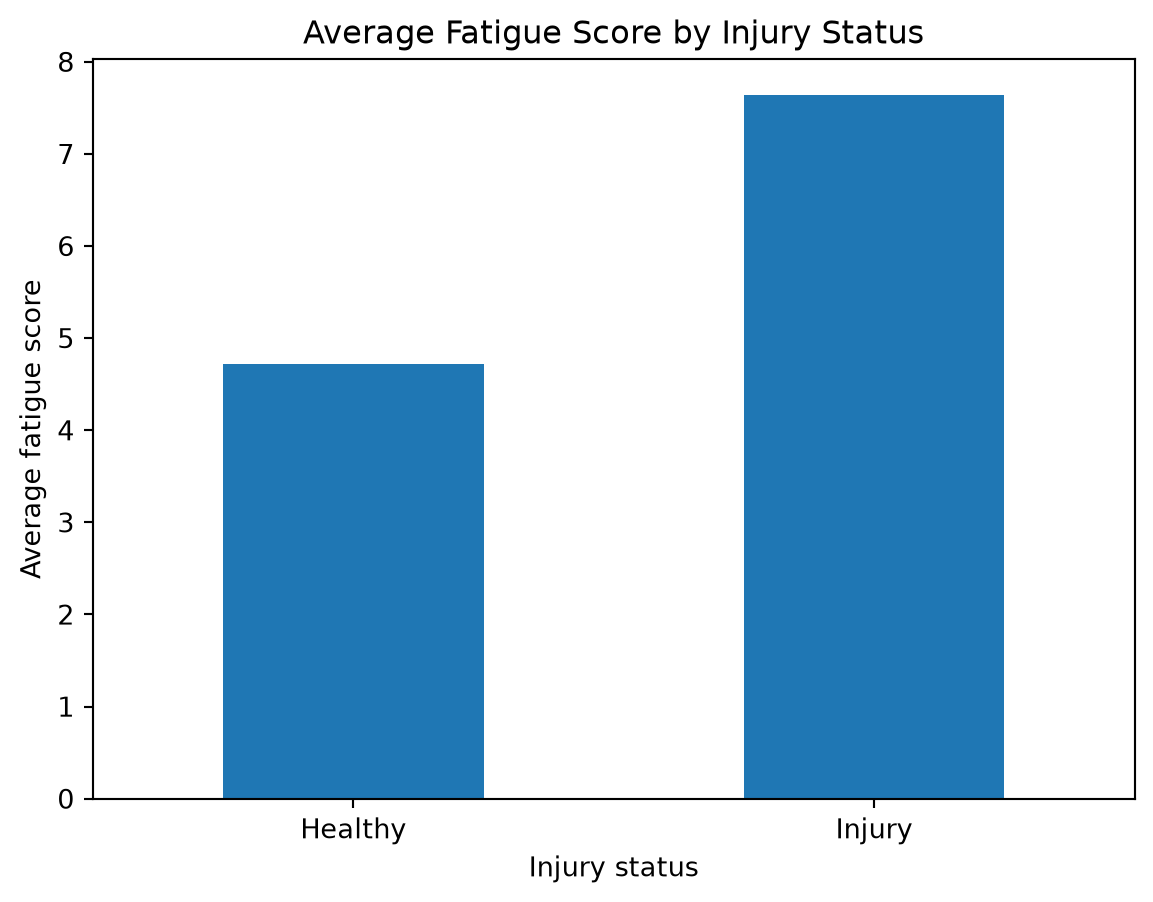
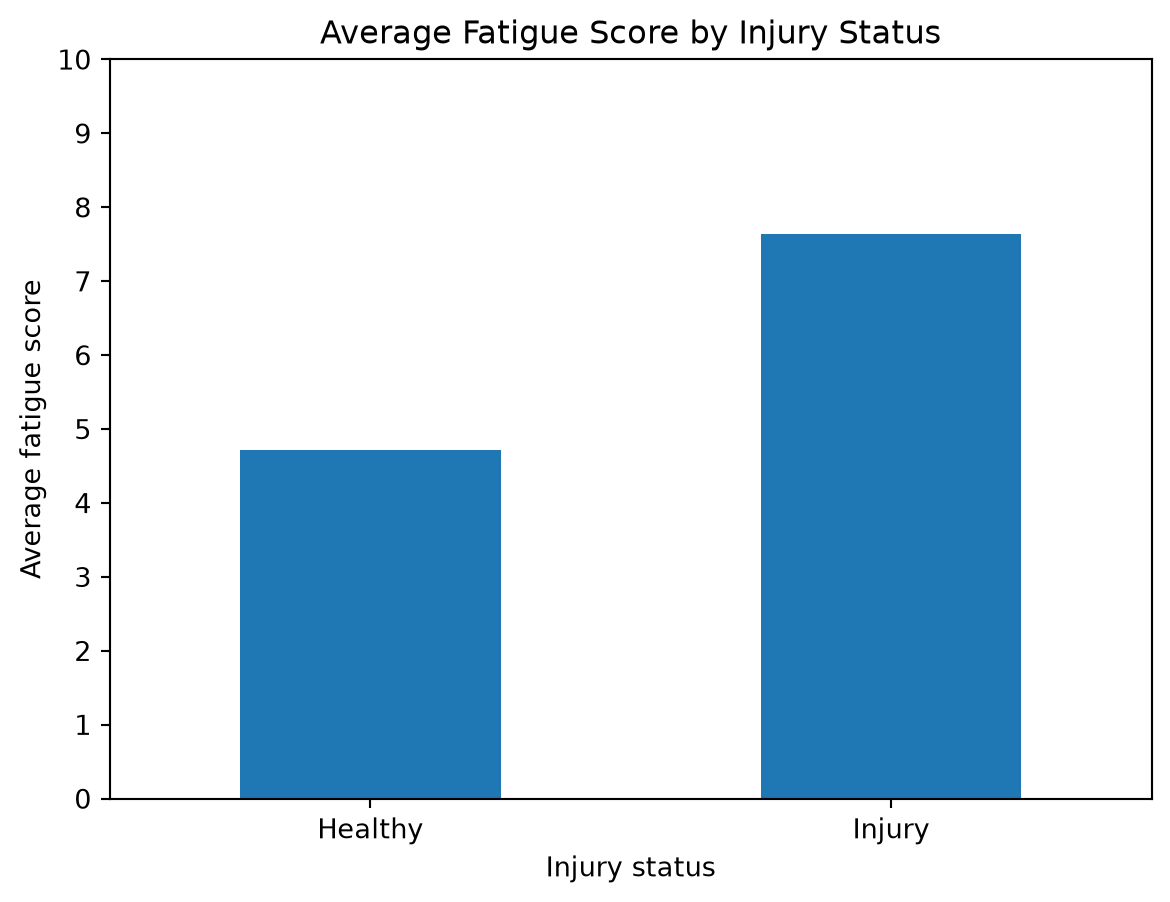
Finished writing the sports performance and injuries post

diff --git a/docs/posts/athlete_injuries/index.html b/docs/posts/athlete_injuries/index.html
@@ -335,6 +335,8 @@ pre > code.sourceCode > span > a:first-child::before { text-decoration: underlin
   <li><a href="#loading-and-inspecting-the-data" id="toc-loading-and-inspecting-the-data" class="nav-link" data-scroll-target="#loading-and-inspecting-the-data">Loading and Inspecting the Data</a></li>
   <li><a href="#comparing-training-and-recovery-characteristics" id="toc-comparing-training-and-recovery-characteristics" class="nav-link" data-scroll-target="#comparing-training-and-recovery-characteristics">Comparing Training and Recovery Characteristics</a></li>
   <li><a href="#focusing-on-fatigue" id="toc-focusing-on-fatigue" class="nav-link" data-scroll-target="#focusing-on-fatigue">Focusing on fatigue</a></li>
+  <li><a href="#does-it-affect-performance" id="toc-does-it-affect-performance" class="nav-link" data-scroll-target="#does-it-affect-performance">Does it affect Performance?</a></li>
+  <li><a href="#conclusion" id="toc-conclusion" class="nav-link" data-scroll-target="#conclusion">Conclusion</a></li>
   </ul>
 </nav>
     </div>
@@ -384,18 +386,18 @@ pre > code.sourceCode > span > a:first-child::before { text-decoration: underlin
 <h2 class="anchored" data-anchor-id="intro">Intro</h2>
 <p>The bane of any athlete’s existence is: <strong>Injury</strong>.</p>
 <p>You can try to escape from it; do your stretching, conditioning, strengthening, but it’ll always catch up to you in some way unexpectedly. The most you can do is prime the body to try to prevent injuries.</p>
-<p>It’s a lot easier to get injured as you get older. That’s why, when you’re young, you think you’re invincible. So, it should make sense that people aged 18-25 at their athletic peak should be the least injury-prone, right? Wrong. The higher level in competitive sports you go, the more risk of injury there is. Thus, through this dataset, we will try to analyze <strong>which training and recovery factors are associated with injury among collegiate athletes?</strong></p>
+<p>It’s a lot easier to get injured as you get older. That’s why, when you’re young, you think you’re invincible. So, it should make sense that people aged 18-25 at their athletic peak should be the least injury-prone, right? Wrong. The higher level in competitive sports you go, the more risk of injury there is. Thus, through this dataset, we will try to analyze <strong>How do training load, recovery, and fatigue differ between injured and healthy collegiate athletes?</strong></p>
 </section>
 <section id="loading-and-inspecting-the-data" class="level2">
 <h2 class="anchored" data-anchor-id="loading-and-inspecting-the-data">Loading and Inspecting the Data</h2>
-<div id="65ae7c2a" class="cell" data-execution_count="1">
+<div id="ab2f0d0e" class="cell" data-execution_count="1">
 <div class="code-copy-outer-scaffold"><div class="sourceCode cell-code" id="cb1"><pre class="sourceCode python code-with-copy"><code class="sourceCode python"><span id="cb1-1"><a href="#cb1-1" aria-hidden="true" tabindex="-1"></a><span class="im">import</span> pandas <span class="im">as</span> pd</span>
 <span id="cb1-2"><a href="#cb1-2" aria-hidden="true" tabindex="-1"></a><span class="im">import</span> matplotlib.pyplot <span class="im">as</span> plt</span>
 <span id="cb1-3"><a href="#cb1-3" aria-hidden="true" tabindex="-1"></a></span>
 <span id="cb1-4"><a href="#cb1-4" aria-hidden="true" tabindex="-1"></a>athletes <span class="op">=</span> pd.read_csv(<span class="st">'data/collegiate_athlete_injury_dataset.csv'</span>)</span>
 <span id="cb1-5"><a href="#cb1-5" aria-hidden="true" tabindex="-1"></a></span>
 <span id="cb1-6"><a href="#cb1-6" aria-hidden="true" tabindex="-1"></a>athletes.head()</span></code></pre></div><button title="Copy to Clipboard" class="code-copy-button"><i class="bi"></i></button></div>
-<div class="cell-output cell-output-display" data-execution_count="130">
+<div class="cell-output cell-output-display" data-execution_count="1">
 <div>
 
 
@@ -529,7 +531,7 @@ pre > code.sourceCode > span > a:first-child::before { text-decoration: underlin
 </div>
 </div>
 </div>
-<div id="a50bce23" class="cell" data-execution_count="2">
+<div id="4567073a" class="cell" data-execution_count="2">
 <div class="code-copy-outer-scaffold"><div class="sourceCode cell-code" id="cb2"><pre class="sourceCode python code-with-copy"><code class="sourceCode python"><span id="cb2-1"><a href="#cb2-1" aria-hidden="true" tabindex="-1"></a>counts <span class="op">=</span> pd.DataFrame({</span>
 <span id="cb2-2"><a href="#cb2-2" aria-hidden="true" tabindex="-1"></a>    <span class="st">"count"</span>: athletes[<span class="st">"Injury_Indicator"</span>].value_counts(),</span>
 <span id="cb2-3"><a href="#cb2-3" aria-hidden="true" tabindex="-1"></a>    <span class="st">"pct_total"</span>: athletes[<span class="st">"Injury_Indicator"</span>].value_counts(normalize<span class="op">=</span><span class="va">True</span>)</span>
@@ -537,7 +539,7 @@ pre > code.sourceCode > span > a:first-child::before { text-decoration: underlin
 <span id="cb2-5"><a href="#cb2-5" aria-hidden="true" tabindex="-1"></a>counts.index <span class="op">=</span> [<span class="st">'healthy'</span>, <span class="st">'injured'</span>]</span>
 <span id="cb2-6"><a href="#cb2-6" aria-hidden="true" tabindex="-1"></a></span>
 <span id="cb2-7"><a href="#cb2-7" aria-hidden="true" tabindex="-1"></a>counts</span></code></pre></div><button title="Copy to Clipboard" class="code-copy-button"><i class="bi"></i></button></div>
-<div class="cell-output cell-output-display" data-execution_count="131">
+<div class="cell-output cell-output-display" data-execution_count="2">
 <div>
 
 
@@ -571,7 +573,7 @@ pre > code.sourceCode > span > a:first-child::before { text-decoration: underlin
 </section>
 <section id="comparing-training-and-recovery-characteristics" class="level2">
 <h2 class="anchored" data-anchor-id="comparing-training-and-recovery-characteristics">Comparing Training and Recovery Characteristics</h2>
-<div id="105ca958" class="cell" data-execution_count="3">
+<div id="1f35f66d" class="cell" data-execution_count="3">
 <div class="code-copy-outer-scaffold"><div class="sourceCode cell-code" id="cb3"><pre class="sourceCode python code-with-copy"><code class="sourceCode python"><span id="cb3-1"><a href="#cb3-1" aria-hidden="true" tabindex="-1"></a>injury_summary <span class="op">=</span> (</span>
 <span id="cb3-2"><a href="#cb3-2" aria-hidden="true" tabindex="-1"></a>    athletes</span>
 <span id="cb3-3"><a href="#cb3-3" aria-hidden="true" tabindex="-1"></a>    .groupby(<span class="st">"Injury_Indicator"</span>)[</span>
@@ -590,7 +592,7 @@ pre > code.sourceCode > span > a:first-child::before { text-decoration: underlin
 <span id="cb3-16"><a href="#cb3-16" aria-hidden="true" tabindex="-1"></a>injury_summary.index <span class="op">=</span> [<span class="st">'healthy'</span>, <span class="st">'injured'</span>]</span>
 <span id="cb3-17"><a href="#cb3-17" aria-hidden="true" tabindex="-1"></a></span>
 <span id="cb3-18"><a href="#cb3-18" aria-hidden="true" tabindex="-1"></a>injury_summary</span></code></pre></div><button title="Copy to Clipboard" class="code-copy-button"><i class="bi"></i></button></div>
-<div class="cell-output cell-output-display" data-execution_count="132">
+<div class="cell-output cell-output-display" data-execution_count="3">
 <div>
 
 
@@ -635,7 +637,7 @@ pre > code.sourceCode > span > a:first-child::before { text-decoration: underlin
 </section>
 <section id="focusing-on-fatigue" class="level2">
 <h2 class="anchored" data-anchor-id="focusing-on-fatigue">Focusing on fatigue</h2>
-<div id="1ba0d9a1" class="cell" data-execution_count="4">
+<div id="416ab75b" class="cell" data-execution_count="4">
 <div class="code-copy-outer-scaffold"><div class="sourceCode cell-code" id="cb4"><pre class="sourceCode python code-with-copy"><code class="sourceCode python"><span id="cb4-1"><a href="#cb4-1" aria-hidden="true" tabindex="-1"></a>fatigue_summary <span class="op">=</span> athletes.groupby(<span class="st">'Injury_Indicator'</span>)[<span class="st">'Fatigue_Score'</span>].mean()</span>
 <span id="cb4-2"><a href="#cb4-2" aria-hidden="true" tabindex="-1"></a></span>
 <span id="cb4-3"><a href="#cb4-3" aria-hidden="true" tabindex="-1"></a>fatigue_summary.plot(kind<span class="op">=</span><span class="st">"bar"</span>)</span>
@@ -644,16 +646,85 @@ pre > code.sourceCode > span > a:first-child::before { text-decoration: underlin
 <span id="cb4-6"><a href="#cb4-6" aria-hidden="true" tabindex="-1"></a>plt.ylabel(<span class="st">"Average fatigue score"</span>)</span>
 <span id="cb4-7"><a href="#cb4-7" aria-hidden="true" tabindex="-1"></a>plt.title(<span class="st">"Average Fatigue Score by Injury Status"</span>)</span>
 <span id="cb4-8"><a href="#cb4-8" aria-hidden="true" tabindex="-1"></a>plt.xticks([<span class="dv">0</span>, <span class="dv">1</span>], [<span class="st">"Healthy"</span>, <span class="st">"Injury"</span>], rotation<span class="op">=</span><span class="dv">0</span>)</span>
-<span id="cb4-9"><a href="#cb4-9" aria-hidden="true" tabindex="-1"></a></span>
-<span id="cb4-10"><a href="#cb4-10" aria-hidden="true" tabindex="-1"></a>plt.show()</span></code></pre></div><button title="Copy to Clipboard" class="code-copy-button"><i class="bi"></i></button></div>
+<span id="cb4-9"><a href="#cb4-9" aria-hidden="true" tabindex="-1"></a>plt.yticks(<span class="bu">range</span>(<span class="dv">11</span>))</span>
+<span id="cb4-10"><a href="#cb4-10" aria-hidden="true" tabindex="-1"></a></span>
+<span id="cb4-11"><a href="#cb4-11" aria-hidden="true" tabindex="-1"></a>plt.show()</span></code></pre></div><button title="Copy to Clipboard" class="code-copy-button"><i class="bi"></i></button></div>
 <div class="cell-output cell-output-display">
 <div>
 <figure class="figure">
-<p><img src="index_files/figure-html/cell-5-output-1.png" width="577" height="451" class="figure-img"></p>
+<p><img src="index_files/figure-html/cell-5-output-1.png" width="585" height="451" class="figure-img"></p>
 </figure>
 </div>
 </div>
 </div>
+<p>Humans have drive and grit, and there’s been a long-standing narrative that we have to push past our limits in order to accomplish something. That’s only true to an extent and we have to be able to manage that to make sure nothing breaks; figuratively and literally speaking.</p>
+<p>Fatigue is one of the most basic indicators that tell us that our bodies need rest. The more fatigue the body experiences, the more at risk of injury too. Out of a 10-point scale, the fact that the injured athletes have a noticeably higher score on fatigue is concering. The healthy athletes maintain a baseline-level (suitable for athletes), at almost a score of 5. On the other hand, the injured is approaching a dangerous level with a score reaching almost an 8. With matches, practice, and additional training, fatigue is bound to keep amassing.</p>
+</section>
+<section id="does-it-affect-performance" class="level2">
+<h2 class="anchored" data-anchor-id="does-it-affect-performance">Does it affect Performance?</h2>
+<div id="798fe1ff" class="cell" data-execution_count="5">
+<div class="code-copy-outer-scaffold"><div class="sourceCode cell-code" id="cb5"><pre class="sourceCode python code-with-copy"><code class="sourceCode python"><span id="cb5-1"><a href="#cb5-1" aria-hidden="true" tabindex="-1"></a>performance_summary <span class="op">=</span> (</span>
+<span id="cb5-2"><a href="#cb5-2" aria-hidden="true" tabindex="-1"></a>    athletes</span>
+<span id="cb5-3"><a href="#cb5-3" aria-hidden="true" tabindex="-1"></a>    .groupby(<span class="st">"Injury_Indicator"</span>)[</span>
+<span id="cb5-4"><a href="#cb5-4" aria-hidden="true" tabindex="-1"></a>        [<span class="st">"Performance_Score"</span>, <span class="st">"Team_Contribution_Score"</span>]</span>
+<span id="cb5-5"><a href="#cb5-5" aria-hidden="true" tabindex="-1"></a>    ]</span>
+<span id="cb5-6"><a href="#cb5-6" aria-hidden="true" tabindex="-1"></a>    .mean()</span>
+<span id="cb5-7"><a href="#cb5-7" aria-hidden="true" tabindex="-1"></a>)</span>
+<span id="cb5-8"><a href="#cb5-8" aria-hidden="true" tabindex="-1"></a></span>
+<span id="cb5-9"><a href="#cb5-9" aria-hidden="true" tabindex="-1"></a>performance_summary.index <span class="op">=</span> [<span class="st">"Healthy"</span>, <span class="st">"Injured"</span>]</span>
+<span id="cb5-10"><a href="#cb5-10" aria-hidden="true" tabindex="-1"></a>performance_summary</span></code></pre></div><button title="Copy to Clipboard" class="code-copy-button"><i class="bi"></i></button></div>
+<div class="cell-output cell-output-display" data-execution_count="5">
+<div>
+
+
+<table class="dataframe caption-top table table-sm table-striped small" data-border="1">
+<thead>
+<tr class="header">
+<th data-quarto-table-cell-role="th"></th>
+<th data-quarto-table-cell-role="th">Performance_Score</th>
+<th data-quarto-table-cell-role="th">Team_Contribution_Score</th>
+</tr>
+</thead>
+<tbody>
+<tr class="odd">
+<th data-quarto-table-cell-role="th">Healthy</th>
+<td>74.370968</td>
+<td>72.462366</td>
+</tr>
+<tr class="even">
+<th data-quarto-table-cell-role="th">Injured</th>
+<td>75.714286</td>
+<td>74.857143</td>
+</tr>
+</tbody>
+</table>
+
+</div>
+</div>
+</div>
+<div id="a3cfd1c7" class="cell" data-execution_count="6">
+<div class="code-copy-outer-scaffold"><div class="sourceCode cell-code" id="cb6"><pre class="sourceCode python code-with-copy"><code class="sourceCode python"><span id="cb6-1"><a href="#cb6-1" aria-hidden="true" tabindex="-1"></a>performance_summary[<span class="st">"Performance_Score"</span>].plot(kind<span class="op">=</span><span class="st">"bar"</span>)</span>
+<span id="cb6-2"><a href="#cb6-2" aria-hidden="true" tabindex="-1"></a></span>
+<span id="cb6-3"><a href="#cb6-3" aria-hidden="true" tabindex="-1"></a>plt.xlabel(<span class="st">"Injury status"</span>)</span>
+<span id="cb6-4"><a href="#cb6-4" aria-hidden="true" tabindex="-1"></a>plt.ylabel(<span class="st">"Average performance score"</span>)</span>
+<span id="cb6-5"><a href="#cb6-5" aria-hidden="true" tabindex="-1"></a>plt.title(<span class="st">"Average Performance Score by Injury Status"</span>)</span>
+<span id="cb6-6"><a href="#cb6-6" aria-hidden="true" tabindex="-1"></a>plt.xticks(rotation<span class="op">=</span><span class="dv">0</span>)</span>
+<span id="cb6-7"><a href="#cb6-7" aria-hidden="true" tabindex="-1"></a>plt.yticks(<span class="bu">range</span>(<span class="dv">0</span>,<span class="dv">101</span>,<span class="dv">10</span>))</span>
+<span id="cb6-8"><a href="#cb6-8" aria-hidden="true" tabindex="-1"></a>plt.show()</span></code></pre></div><button title="Copy to Clipboard" class="code-copy-button"><i class="bi"></i></button></div>
+<div class="cell-output cell-output-display">
+<div>
+<figure class="figure">
+<p><img src="index_files/figure-html/cell-7-output-1.png" width="594" height="451" class="figure-img"></p>
+</figure>
+</div>
+</div>
+</div>
+<p>With the habits of the injured players, we can see that it does make them perform better…marginally. The average performance score of a healthy player is 74.4, whereas the average performance score of an injured player is 75.7. Does overtraining make the performance score higher? Yes. Is it worth it? No.</p>
+</section>
+<section id="conclusion" class="level2">
+<h2 class="anchored" data-anchor-id="conclusion">Conclusion</h2>
+<p>Doing all that extra training, stressing the body to the brink of breaking, and hindering the body from resting only accounts for an almost obsolete increase in performance. The worst part is that tiny sliver of increase in performance may set the athlete back from training or even playing for extended periods of time. Then what? High risk, very low reward.</p>
+<p>The lesson here is: even the greatest athletes get injured. The truly great athletes are the ones who are able to prolong their career by staying healthy.</p>
 
 
 </section>

diff --git a/docs/blog.html b/docs/blog.html
@@ -377,7 +377,7 @@ window.Quarto = {
 
 <div class="quarto-listing quarto-listing-container-default" id="listing-listing">
 <div class="list quarto-listing-default">
-<div class="quarto-post image-right" data-index="0" data-listing-date-sort="1790060400000" data-listing-file-modified-sort="1790105951341" data-listing-date-modified-sort="NaN" data-listing-reading-time-sort="3" data-listing-word-count-sort="440">
+<div class="quarto-post image-right" data-index="0" data-listing-date-sort="1790060400000" data-listing-file-modified-sort="1790108587656" data-listing-date-modified-sort="NaN" data-listing-reading-time-sort="4" data-listing-word-count-sort="764">
 <div class="thumbnail"><a href="./posts/athlete_injuries/index.html" class="no-external">
 
 <p class="card-img-top"><img loading='lazy' src="posts/athlete_injuries/index_files/figure-html/cell-5-output-1.png"  class="thumbnail-image card-img"/></p>
